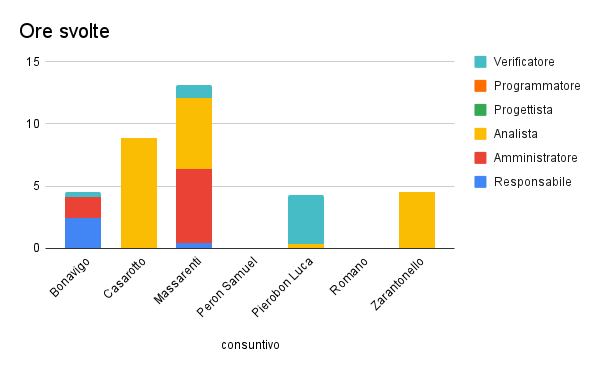
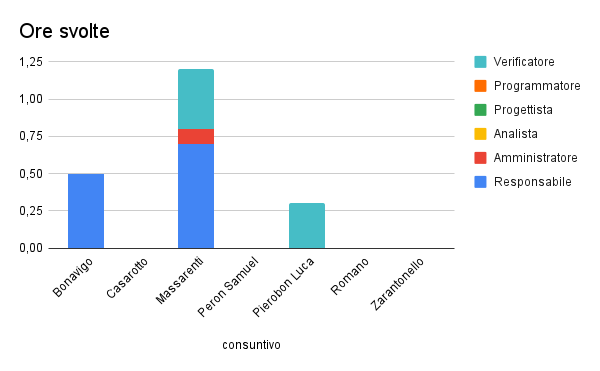
Verbalizzato sprint 7 SPR_20230129 #30

diff --git a/sprint/SPR_20230129/contenuti/consuntivazione.tex b/sprint/SPR_20230129/contenuti/consuntivazione.tex
@@ -1,10 +1,5 @@
 \section{Consuntivazione}
 
-\subsection{Milestones:}
-\begin{itemize}
-    \item Release versione 0.0.4 (Completa al: 80\%)
-\end{itemize}
-
 \subsection{Attività svolte}
 
 \begin{table}[ht]
@@ -13,11 +8,8 @@
         \rowcolor{gray!30} \textbf{Attività} & \textbf{Stato} & \textbf{Ruolo}\\
         
         \hline
-        aggiunti processi primari alle \textbf{Norme di Progetto} & completato & Amministratore\\
-        aggiunti processi di supporto alle \textbf{Norme di Progetto} & completato & Amministratore\\
-        definite norme di codifica & completato & Amministratore\\
-        documentato il \textbf{PoC} & completato & Amministratore\\
-        progredito con il \textbf{PoC}& completato & Amministratore\\
+        verificata stesura processi primari avvenuta nell'iterazione precedente & completato & Amministratore\\
+        svolte requisiti burocratici & completato & Responsabile\\
         \end{tabularx}
     \caption{Lista delle attività svolte durante lo sprint}
 \end{table}
@@ -27,14 +19,14 @@
     \begin{tabularx}{\linewidth}{X|rrrrrrr}
     \rowcolor{gray!30}& Re & Amm & An & Pro & Prog & Ver & tot \\
     \hline
-    Bonavigo Michele                        & 2,4 & 1,7 & 0 & 0 & 0 & 0,45  & 4,55 \\
-    \rowcolor{gray!10}Casarotto Mattia      & 0 & 0 & 8,9 & 0 & 0 & 0 & 8,9 \\
-    Massarenti Alessandro                   & 0,4 & 5,95 & 5,75 & 0 & 0 & 1  & 13,1 \\
+    Bonavigo Michele                        & 0,5 & 0 & 0 & 0 & 0 & 0  & 0,5 \\
+    \rowcolor{gray!10}Casarotto Mattia      & 0 & 0 & 0 & 0 & 0 & 0 & 0 \\
+    Massarenti Alessandro                   & 0,7 & 0,1 & 0 & 0 & 0 & 0,4  & 1,2 \\
     \rowcolor{gray!10}Peron Samuel          & 0 & 0 & 0 & 0 & 0 & 0 & 0 \\
-    Pierobon Luca                           & 0 & 0 & 0,35 & 0 & 0 & 3,9 & 4,25 \\
+    Pierobon Luca                           & 0 & 0 & 0 & 0 & 0 & 0,3 & 0,3 \\
     \rowcolor{gray!10}Romano Davide         & 0 & 0 & 0 & 0 & 0 & 0 & 0 \\
-    Zarantonello Giorgio                    & 0 & 0 & 4,5 & 0 & 0 & 0 & 4,5 \\
-    \hline                                  & 2,8 & 7,65 & 19,5 & 0 & 0 & 5,35 & 
+    Zarantonello Giorgio                    & 0 & 0 & 0 & 0 & 0 & 0 & 0 \\
+    \hline                                  & 1,2 & 0,1 & 0 & 0 & 0 & 0,7 & \\ 
     \end{tabularx}
     \caption{\label{ruoli-persone}Spartizione dei ruoli e ore svolte durante lo sprint}
 \end{table}
@@ -48,19 +40,19 @@
     \rowcolor{gray!30}& Ore & Costo \\
     \hline
     
-    Responsabile & 2,8 & € 84,00 \\
-    \rowcolor{gray!10}Amministratore & 7,65 & € 153,00 \\
-    Analista & 19,5 & € 487,50 \\
+    Responsabile & 1,2 & € 36,00 \\
+    \rowcolor{gray!10}Amministratore & 0,1 & € 2,00 \\
+    Analista & 0 & € 0,00 \\
     \rowcolor{gray!10}Progettista & 0 & € 0,00 \\
     Programmatore & 0 & € 0,00 \\
-    \rowcolor{gray!10}Verificatore & 5,35 &€ 80,25 \\
-    totale & 35,3 & € 804,75 \\
+    \rowcolor{gray!10}Verificatore & 0,7 &€ 10,50 \\
+    totale & 2 & € 48,50 \\
     \end{tabularx}
     \caption{\label{costi-ruolo}Spartizione dei ruoli e ore svolte durante lo sprint}
 \end{table}
 
 
-Avendo quindi consumato €804,75\footnote{Si veda tabella \ref{costi-ruolo}} del budget durante questo sprint, rimangono ancora a disposizione € 11836,00 per gli sprint seguenti.
+Avendo quindi consumato €48,50\footnote{Si veda tabella \ref{costi-ruolo}} del budget durante questo sprint, rimangono ancora a disposizione € 11787,50 per gli sprint seguenti.
 
 \subsection{Trend e riflessioni}
 
@@ -69,16 +61,18 @@ Avendo quindi consumato €804,75\footnote{Si veda tabella \ref{costi-ruolo}} de
     \caption{Andamento ore utilizzate nei vari sprint}\label{img:andamento}
 \end{figure}
 
-Come preventivato nel verbale SPR\_20230101, ovvero quello precedente, possiamo notare nella figura \ref{img:andamento} un trend positivo.
-
-È nostro desiderio mantenere questo ritmo.
+Come descritto nella sezione \ref{preventivo} relativa al preventivo, questo sprint è molto rallentato per via degli esami in corso. Il gruppo non è soddisfatto e prevede di impegnarsi con più decisione negli sprint successivi.
 
 \subsection{Difficoltà e problemi di sprint}
 
-Alcune questioni sono risultate durante questo sprint:
+Alcune questioni sono risultate\footnote{alcune questioni purtroppo non sono state risolte rispetto allo sprint precedente} durante questo sprint:
 
 \begin{itemize}
-    \item il proponente non ha ancora definito il supporto hardware per i lampioni aa cui dovremo far fede.
+    \item il gruppo si è concentrato molto sugli esami, mettendo in primo piano gli obiettivi a breve termine;
+    \item il proponente non ha ancora definito il supporto hardware per i lampioni a cui dovremo far fede.
 \end{itemize}
 
-Queste verranno discusse in sede di preparazione del prossimo sprint.
+In retrospettiva il gruppo ha iniziato ad elaborare come la scelta di mettere in coda questa attività non sia costruttiva.
+Il feedback al diario di bordo DRO\_20230129 ci ha aiutato a ragionare e a comprendere meglio la questione.
+
+Queste difficoltà verranno inoltre discusse in sede di preparazione del prossimo sprint.

diff --git a/sprint/SPR_20230129/contenuti/ruoli.tex b/sprint/SPR_20230129/contenuti/ruoli.tex
@@ -1,7 +1,6 @@
 \section{Ruoli}
 
-I ruoli in questo sprint sono rimasti gli stessi dello sprint precedente.
-
+I ruoli in questo sprint sono cambiati rispetto allo sprint precedente, come da verbale VIN\_20230114.
 \paragraph{I ruoli principali:}
 
 \begin{center}
@@ -11,9 +10,9 @@ I ruoli in questo sprint sono rimasti gli stessi dello sprint precedente.
         
         \hline
 
-        Bonavigo Michele & Responsabile \\
+        Bonavigo Michele & Analista \\
         \rowcolor{gray!10}Casarotto Mattia & Analista \\
-        Massarenti Alessandro & Analista \\
+        Massarenti Alessandro & Responsabile \\
         \rowcolor{gray!10}Peron Samuel & Analista \\
         Pierobon Luca & Verificatore \\
         \rowcolor{gray!10}Romano Davide & Analista \\

diff --git a/sprint/SPR_20230129/contenuti/previsione.tex b/sprint/SPR_20230129/contenuti/previsione.tex
@@ -1,10 +1,5 @@
-\section{Preventivo}
+\section{Preventivo}\label{preventivo}
 
-In questo sprint abbiamo preventivato di sviluppare il \textbf{PoC} e le \textbf{Norme di Progetto}.
+In questo sprint abbiamo preventivato di sviluppare le \textbf{Norme di Progetto}.
 
-\subsection{Milestones:}  
-\subsubsection{Release versione 0.0.4 dell'analisi dei requisiti}
-
-È la principale milestone di questo sprint.
-
-Questa milestone è registrata \href{https://github.com/SWEasabi/analisi-dei-requisiti/milestone/4}{qui}
+Questo sprint non ha poi preventivato molto altro perché svolto durante un intenso periodo di esami.

diff --git a/sprint/SPR_20230129/d_SPR_20230129.tex b/sprint/SPR_20230129/d_SPR_20230129.tex
@@ -13,10 +13,10 @@
     \normalsize
     \begin{center}
         \begin{tabularx}{8cm}{l | X}            
-            \textbf{Approvazione} & Bonavigo Michele\\
+            \textbf{Approvazione} & Massarenti Alessandro\\
             \textbf{Segreteria} & Bonavigo Michele\\
             & Massarenti Alessandro\\
-            \textbf{Verifica} & Massarenti Alessandro\\
+            \textbf{Verifica} & Bonavigo Michele\\
 
             \hline
 
